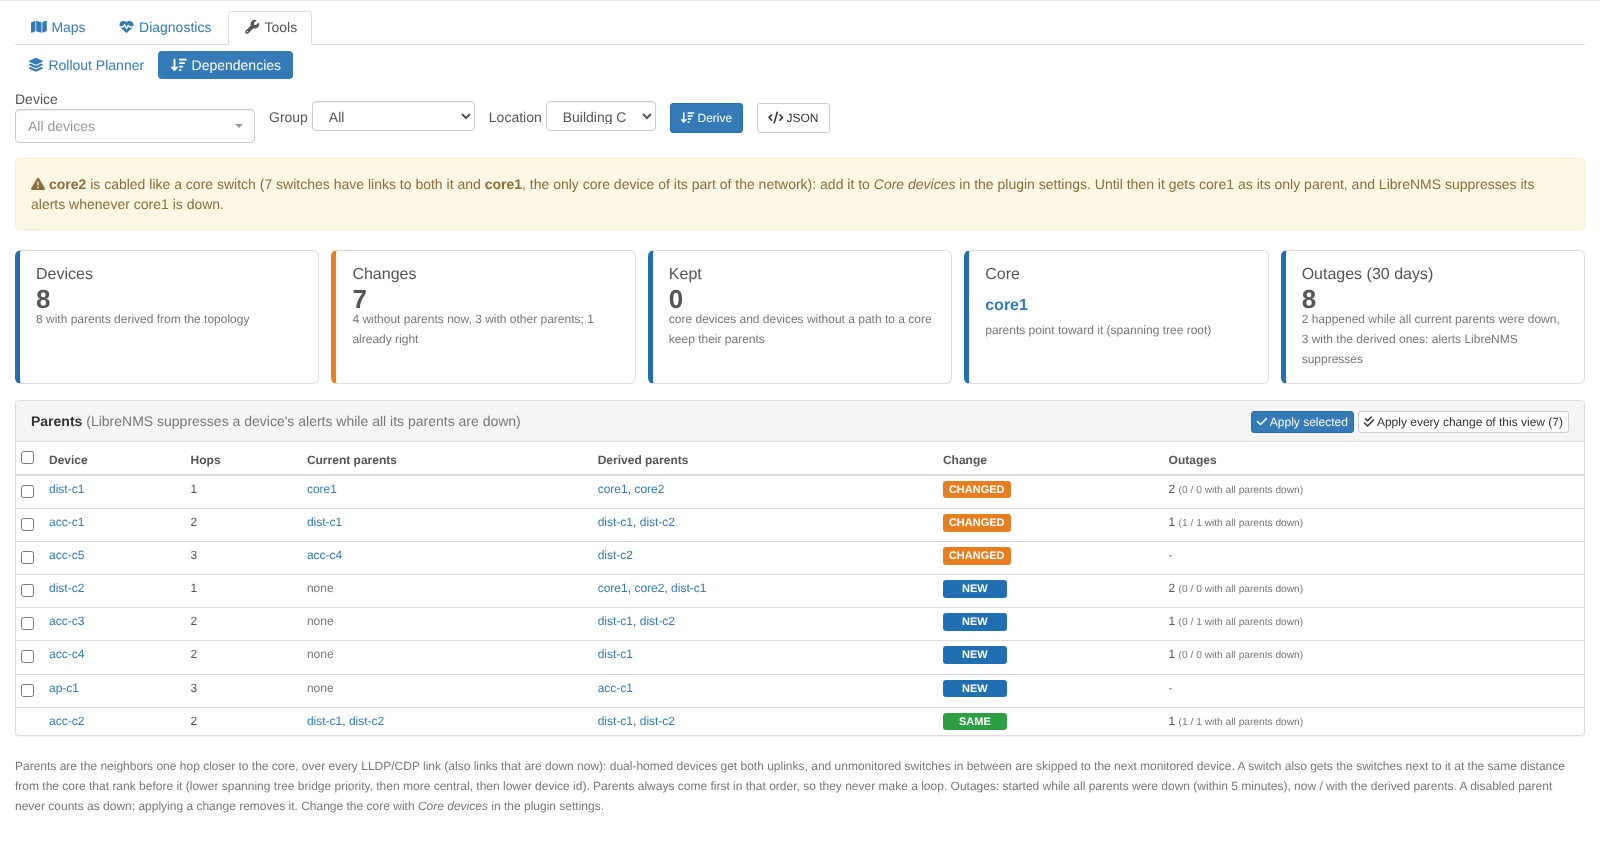
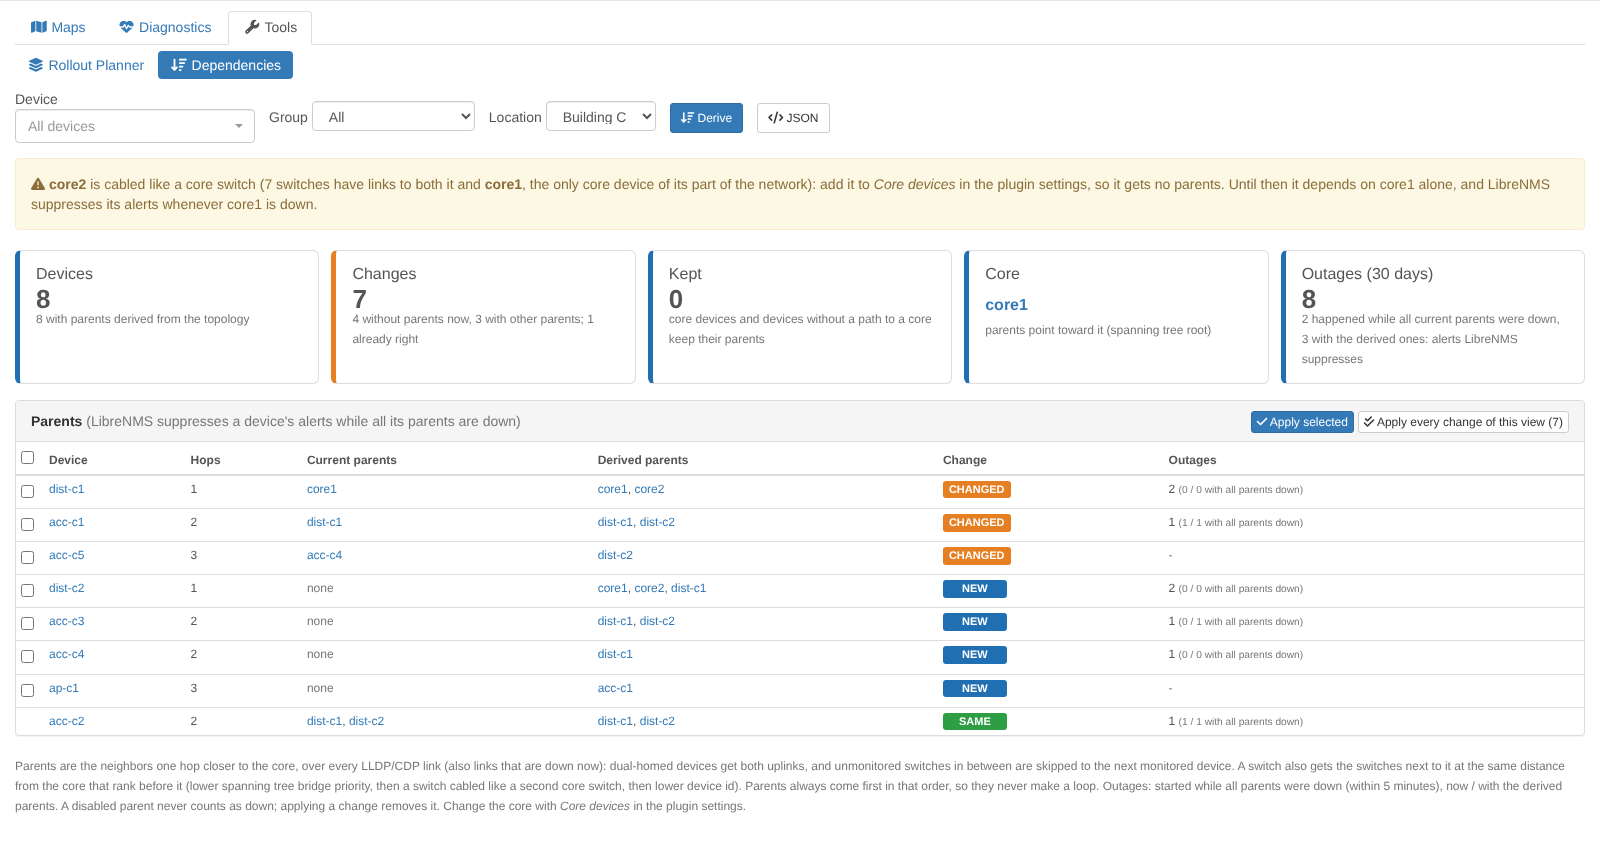
Rank same-distance parents by priority, core lookalike, then id
Drop the hop-total tie-break of same-distance parents: it ran a search of
the whole network per ranked switch, and which of two peer-linked
switches depended on the other flipped when unrelated switches were
added. Switches now rank by bridge priority (without the VLAN bits),
then the switch CoreAdvice names as cabled like a second core switch,
then device id: a strict order that only depends on the two switches.
CoreAdvice counts shared neighbors with a set (linear).

The dependencies page's warning about that switch now names the parents
it actually gets.

Claude-Session: https://claude.ai/code/session_0198AmcjhsoHmwiaRMAktLtB

Changed region(s): [[0.0625, 0.9209, 0.9688, 0.9823], [0.6875, 0.2149, 0.9688, 0.2456], [0.0312, 0.2149, 0.1875, 0.2456]]

diff --git a/tests/Unit/DependencyPlannerTest.php b/tests/Unit/DependencyPlannerTest.php
@@ -85,12 +85,21 @@ class DependencyPlannerTest extends TestCase
         $this->assertSame([self::C2], $parents[self::D2]);
         $this->assertSame([self::C2, self::D1], self::parents(self::square(), [], [self::D1 => 32769, self::D2 => 32770])[self::D2]);
 
-        // then the more central switch (fewer hops to the other switches): acc1 hangs off dist2
-        $net = self::square();
-        $net->device(self::A1, 'acc1')->link(self::A1, 'Gi1/0/49', self::D2, 'Gi1/0/1');
-        $parents = self::parents($net);
-        $this->assertSame([self::C1, self::D2], $parents[self::D1]);
-        $this->assertSame([self::C2], $parents[self::D2]);
+    }
+
+    public function testOrderDoesNotDependOnOtherSwitches(): void
+    {
+        // a peer link between the distribution switches: dist2 gets dist1, whatever else hangs off either of them
+        $net = RedundancyFixture::campus();
+        $net->link(self::D1, 'Te1/1/5', self::D2, 'Te1/1/5');
+        $this->assertSame([self::C1, self::C2, self::D1], self::parents($net)[self::D2]);
+
+        $net->device(8, 'acc3')->link(8, 'Gi1/0/49', self::D2, 'Gi1/0/8');
+        $this->assertSame([self::C1, self::C2, self::D1], self::parents($net)[self::D2]);
+        $this->assertSame([self::C1, self::C2], self::parents($net)[self::D1]);
+
+        $net->device(9, 'acc4')->link(9, 'Gi1/0/49', self::D1, 'Gi1/0/9')->device(10, 'acc5')->link(10, 'Gi1/0/49', self::D1, 'Gi1/0/10');
+        $this->assertSame([self::C1, self::C2, self::D1], self::parents($net)[self::D2]);
     }
 
     public function testOddRingDependsOnBothSides(): void
@@ -117,7 +126,7 @@ class DependencyPlannerTest extends TestCase
             ->link(10, 'Gi1/0/50', 11, 'Gi1/0/49')->link(11, 'Gi1/0/50', self::D2, 'Gi1/0/11');
         $derived = (new DependencyPlanner($net->analyzer()))->derive();
 
-        $this->assertSame([8], $derived[9]['parents'], 'ranks first (as central, lower device id)');
+        $this->assertSame([8], $derived[9]['parents'], 'ranks first (lower device id)');
         $this->assertSame([9, 11], $derived[10]['parents'], 'its own uplink and the switch next to it');
         $this->assertSame([3, 3], [$derived[9]['hops'], $derived[10]['hops']]);
         $this->assertSame([], DependencyPlanner::loops(array_map(fn ($entry) => $entry['parents'], $derived)));
@@ -137,10 +146,51 @@ class DependencyPlannerTest extends TestCase
         $this->assertSame([self::D1, self::D2], $derived[self::A1]['parents']);
         $this->assertSame([['core' => self::C1, 'lookalike' => self::C2, 'shared' => 2]], CoreAdvice::singleCores($analyzer));
 
-        // without spanning tree data the distribution switches are more central than core2: the page says to set it as core
+        // without spanning tree data core2 ranks first as the switch cabled like a second core switch
         $analyzer = $net->analyzer(['redundancy_core' => 'core1']);
+        $derived = (new DependencyPlanner($analyzer))->derive();
         $this->assertSame([['core' => self::C1, 'lookalike' => self::C2, 'shared' => 2]], CoreAdvice::singleCores($analyzer));
-        $this->assertSame([], DependencyPlanner::loops(array_map(fn ($entry) => $entry['parents'], (new DependencyPlanner($analyzer))->derive())));
+        $this->assertSame([self::C1], $derived[self::C2]['parents']);
+        $this->assertSame([self::C1, self::C2], $derived[self::D1]['parents']);
+        $this->assertSame([self::C1, self::C2], $derived[self::D2]['parents']);
+
+        // a lower bridge priority still ranks first
+        $derived = (new DependencyPlanner($net->analyzer(['redundancy_core' => 'core1'], null, [], [], [self::D1 => 4096])))->derive();
+        $this->assertSame([self::C1, self::D1], $derived[self::C2]['parents']);
+        $this->assertSame([self::C1], $derived[self::D1]['parents']);
+        $this->assertSame([], DependencyPlanner::loops(array_map(fn ($entry) => $entry['parents'], $derived)));
+    }
+
+    public function testLargeCampusWithRingsIsDerivedQuickly(): void
+    {
+        // 40 distribution pairs with a peer link, each with a ring of 30 access switches from one to the other
+        $net = new RedundancyFixture;
+        $net->device(1, 'core1')->device(2, 'core2')->link(1, 'Te1/1/1', 2, 'Te1/1/1');
+        $id = 2;
+        for ($pod = 0; $pod < 40; $pod++) {
+            $a = ++$id;
+            $b = ++$id;
+            $net->device($a, "dist{$pod}a")->device($b, "dist{$pod}b")->link($a, 'Te1/1/1', 1, "Te1/0/$a")->link($a, 'Te1/1/2', 2, "Te1/0/$a")
+                ->link($b, 'Te1/1/1', 1, "Te1/0/$b")->link($b, 'Te1/1/2', 2, "Te1/0/$b")->link($a, 'Te1/1/3', $b, 'Te1/1/3');
+            $previous = $a;
+            for ($i = 0; $i < 30; $i++) {
+                $net->device(++$id, "acc{$pod}-{$i}")->link($id, 'Gi1/0/49', $previous, "Gi1/0/50-$i");
+                $previous = $id;
+            }
+            $net->link($previous, 'Gi1/0/50', $b, 'Gi1/0/1');
+        }
+        $analyzer = $net->analyzer();
+        $start = microtime(true);
+        $derived = (new DependencyPlanner($analyzer))->derive();
+        $elapsed = microtime(true) - $start;
+
+        $this->assertCount(1282, $derived);
+        $this->assertSame([], DependencyPlanner::loops(array_map(fn ($entry) => $entry['parents'], $derived)));
+        // the first ring runs dist0a (3), acc 5 to 34, dist0b (4): 19 and 20 are the farthest, 20 also depends on 19
+        $this->assertSame([18], $derived[19]['parents']);
+        $this->assertSame([19, 21], $derived[20]['parents']);
+        $this->assertSame([1, 2, 3], $derived[4]['parents']);
+        $this->assertLessThan(1.0, $elapsed);
     }
 
     public function testDualHomedServerAndLoneDevices(): void

diff --git a/src/Redundancy/DependencyPlanner.php b/src/Redundancy/DependencyPlanner.php
@@ -10,10 +10,11 @@ namespace Agoodley\LibrenmsTopology\Redundancy;
  *  - its neighbours one hop closer to the core, through unmanaged devices (LibreNMS parents must be
  *    monitored devices, so an unmonitored switch is skipped to the next monitored one);
  *  - its switches, routers and firewalls at the same distance from the core that rank before it:
- *    lower spanning tree bridge priority, then more central (fewer hops to the other switches),
- *    then lower device id. A switch cabled to both switches of a core pair whose second switch is
- *    not set as core gets that second switch too when it has the lower bridge priority (as a
- *    secondary root bridge does), and of two peer-linked switches the later one gets the first.
+ *    lower spanning tree bridge priority (without the VLAN bits), then the switch cabled like a
+ *    second core switch (see CoreAdvice), then lower device id. So a switch cabled to both switches
+ *    of a core pair whose second switch is not set as core gets that second switch too, and of two
+ *    peer-linked switches the later one gets the first. The order only depends on these devices,
+ *    not on the rest of the cabling, so it stays the same when other switches come and go.
  * Parents always rank before their children in one strict order (distance, then that rank), so the
  * dependencies never form a loop; more parents only make suppression rarer, the safe side. Core
  * devices and devices without a path to a core get no parents: their current ones are kept.
@@ -48,8 +49,8 @@ class DependencyPlanner
     /** @var array<int, int> device_id => bridge priority without the VLAN bits */
     private array $priority = [];
 
-    /** @var array<string, int> node => hops to every switch, router and firewall it reaches (memo) */
-    private array $hopTotal = [];
+    /** @var array<int, true> device_id => cabled like a second core switch (see CoreAdvice) */
+    private array $lookalike = [];
 
     public function __construct(private RedundancyAnalyzer $analyzer)
     {
@@ -61,6 +62,11 @@ class DependencyPlanner
         $this->distance = array_map('intval', $graph->distances(RedundancyAnalyzer::CORE));
         foreach ($analyzer->bridgePriorities() as $deviceId => $priority) {
             $this->priority[(int) $deviceId] = (int) $priority & 0xF000;
+        }
+        foreach (CoreAdvice::singleCores($analyzer) as $advice) {
+            if ($advice['lookalike'] !== null) {
+                $this->lookalike[$advice['lookalike']] = true;
+            }
         }
     }
 
@@ -157,43 +163,17 @@ class DependencyPlanner
 
     /**
      * Strict order of two network devices at the same distance from the core: lower bridge priority,
-     * then fewer hops to the other switches (more central), then lower device id.
+     * then the switch cabled like a second core switch, then lower device id.
      */
     private function ranksBefore(string $a, string $b): bool
     {
         $deviceA = (int) $this->nodes[$a]['device_id'];
         $deviceB = (int) $this->nodes[$b]['device_id'];
         $order = ($this->priority[$deviceA] ?? self::DEFAULT_PRIORITY) <=> ($this->priority[$deviceB] ?? self::DEFAULT_PRIORITY)
-            ?: $this->hopTotal($a) <=> $this->hopTotal($b)
+            ?: isset($this->lookalike[$deviceB]) <=> isset($this->lookalike[$deviceA])
             ?: $deviceA <=> $deviceB;
 
         return $order < 0;
-    }
-
-    /**
-     * Hops from the node to every switch, router and firewall it reaches without the core node: the
-     * centrality CoreFinder ranks automatic core candidates by.
-     */
-    private function hopTotal(string $node): int
-    {
-        if (! isset($this->hopTotal[$node])) {
-            $hops = [$node => 0];
-            $queue = [$node];
-            $total = 0;
-            for ($i = 0; $i < count($queue); $i++) {
-                foreach ($this->adjacency[$queue[$i]] as $next) {
-                    if ($next !== RedundancyAnalyzer::CORE && ! isset($hops[$next])) {
-                        $hops[$next] = $hops[$queue[$i]] + 1;
-                        $queue[] = $next;
-                        $info = $this->nodes[$next] ?? null;
-                        $total += $info && $info['managed'] && $info['network'] ? $hops[$next] : 0;
-                    }
-                }
-            }
-            $this->hopTotal[$node] = $total;
-        }
-
-        return $this->hopTotal[$node];
     }
 
     /**

diff --git a/resources/views/dependencies.blade.php b/resources/views/dependencies.blade.php
@@ -75,11 +75,19 @@
         @endphp
         @foreach($result['advice'] as $advice)
             @if($advice['lookalike'])
+                @php
+                    $adviceParents = array_map($name, $advice['parents']);
+                    $parentList = count($adviceParents) > 1 ? implode(', ', array_slice($adviceParents, 0, -1)) . ' and ' . end($adviceParents) : implode('', $adviceParents);
+                @endphp
                 <div class="alert alert-warning topo-core-advice">
                     <i class="fa fa-exclamation-triangle"></i> <strong>{{ $name($advice['lookalike']) }}</strong> is cabled like a core switch
                     ({{ $advice['shared'] }} switches have links to both it and <strong>{{ $name($advice['core']) }}</strong>, the only core device of its part of the network):
-                    add it to <i>Core devices</i> in the plugin settings. Until then it gets {{ $name($advice['core']) }} as its only parent, and LibreNMS suppresses
-                    its alerts whenever {{ $name($advice['core']) }} is down.
+                    add it to <i>Core devices</i> in the plugin settings, so it gets no parents.
+                    @if(count($adviceParents) === 1)
+                        Until then it depends on {{ $parentList }} alone, and LibreNMS suppresses its alerts whenever {{ $parentList }} is down.
+                    @elseif($adviceParents)
+                        Until then it depends on {{ $parentList }}, and LibreNMS suppresses its alerts while all of them are down.
+                    @endif
                 </div>
             @endif
         @endforeach
@@ -218,8 +226,8 @@
         <p class="text-muted" style="font-size: 12px">
             Parents are the neighbors one hop closer to the core, over every LLDP/CDP link (also links that are down now): dual-homed devices get both
             uplinks, and unmonitored switches in between are skipped to the next monitored device. A switch also gets the switches next to it at the
-            same distance from the core that rank before it (lower spanning tree bridge priority, then more central, then lower device id). Parents
-            always come first in that order, so they never make a loop.
+            same distance from the core that rank before it (lower spanning tree bridge priority, then a switch cabled like a second core switch, then
+            lower device id). Parents always come first in that order, so they never make a loop.
             Outages: started while all parents were down (within {{ \Agoodley\LibrenmsTopology\Redundancy\DependencyPlanner::OUTAGE_TOLERANCE / 60 }}
             minutes), now / with the derived parents. A disabled parent never counts as down; applying a change removes it.
             @if($single)

diff --git a/src/Topology/PlanningService.php b/src/Topology/PlanningService.php
@@ -108,7 +108,7 @@ class PlanningService
      */
     public function dependencies(array $p): array
     {
-        [$rows, $known] = $this->view($p, $this->repo->deviceIds());
+        [$rows, $known, $derived] = $this->view($p, $this->repo->deviceIds());
         $current = $known['parents'];
         $changes = DependencyPlanner::changes($rows);
 
@@ -134,8 +134,10 @@ class PlanningService
                 $core[] = ['device_id' => (int) $deviceId, 'mode' => $mode];
             }
         }
-        $advice = CoreAdvice::singleCores($this->analyzer());
-        $names = array_map(fn ($info) => $info['name'], $this->deviceInfo(array_merge($ids, array_column($core, 'device_id'), array_column($advice, 'lookalike'))));
+        // the parents a switch cabled like a second core switch gets until it is set as core
+        $advice = array_map(fn ($entry) => $entry + ['parents' => $derived[$entry['lookalike']]['parents'] ?? []], CoreAdvice::singleCores($this->analyzer()));
+        $names = array_map(fn ($info) => $info['name'], $this->deviceInfo(array_merge($ids, array_column($core, 'device_id'),
+            array_column($advice, 'lookalike'), ...array_column($advice, 'parents'))));
         $count = fn (string $change) => count(array_filter($rows, fn ($r) => $r['change'] === $change));
 
         return [
@@ -245,8 +247,9 @@ class PlanningService
      *
      * @param  array{device: ?int, group: ?int, location: ?int}  $p
      * @param  int[]  $all  every device the user may see
-     * @return array{0: array<int, array>, 1: array{parents: array<int, int[]>, disabled: array<int, string>, hidden: array<int, int>}}
-     *     rows (see DependencyPlanner::compare()) and DependencyRepository::parents()
+     * @return array{0: array<int, array>, 1: array{parents: array<int, int[]>, disabled: array<int, string>, hidden: array<int, int>},
+     *     2: array<int, array>} rows (see DependencyPlanner::compare()), DependencyRepository::parents() and
+     *     DependencyPlanner::derive()
      */
     private function view(array $p, array $all): array
     {
@@ -267,7 +270,7 @@ class PlanningService
         usort($rows, fn ($a, $b) => [self::CHANGE_ORDER[$a['change']] ?? 9, $a['hops'] ?? PHP_INT_MAX] <=> [self::CHANGE_ORDER[$b['change']] ?? 9, $b['hops'] ?? PHP_INT_MAX]
             ?: strnatcasecmp($this->name($a['device_id']), $this->name($b['device_id'])));
 
-        return [$rows, $known];
+        return [$rows, $known, $derived];
     }
 
     /**

diff --git a/resources/views/rollout.blade.php b/resources/views/rollout.blade.php
@@ -71,7 +71,7 @@
                 <div class="alert alert-warning topo-core-advice">
                     <i class="fa fa-exclamation-triangle"></i> <strong>{{ $name($advice['lookalike']) }}</strong> is cabled like a core switch
                     ({{ $advice['shared'] }} switches have links to both it and <strong>{{ $name($advice['core']) }}</strong>, the only core device of its part of the network):
-                    add it to <i>Core devices</i> in the plugin settings. Until then it is planned like an access switch, before the core.
+                    add it to <i>Core devices</i> in the plugin settings. Until then it is planned like any other switch, before the core.
                 </div>
             @endif
         @endforeach

diff --git a/src/Redundancy/CoreAdvice.php b/src/Redundancy/CoreAdvice.php
@@ -54,10 +54,11 @@ class CoreAdvice
             }
             $core = $cores[0];
             $around = $neighbours($core);
+            $isAround = array_flip($around);
             $best = null;
             $bestShared = 0;
             foreach ($around as $candidate) {
-                $shared = count(array_intersect($around, $neighbours($candidate)));
+                $shared = count(array_filter($neighbours($candidate), fn ($node) => isset($isAround[$node])));
                 $key = [-$shared, $priority[$candidate] ?? self::DEFAULT_PRIORITY, (int) $nodes[$candidate]['device_id']];
                 if ($best === null || $key < $best[0]) {
                     $best = [$key, $candidate];

diff --git a/README.md b/README.md
@@ -141,9 +141,9 @@ the core over every LLDP/CDP link, also links that are down now.
 
 * Dual-homed devices get both uplink devices, so their alerts are only suppressed when both are down.
 * A switch also gets the switches next to it at the same distance from the core that rank before it: lower spanning
-  tree bridge priority, then more central (fewer hops to the other switches), then lower device id. So a switch cabled
-  to both switches of a core pair gets both even when only one of them is set as core, as long as the other one has the
-  lower bridge priority.
+  tree bridge priority (without the VLAN bits), then a switch cabled like a second core switch, then lower device id.
+  So a switch cabled to both switches of a core pair gets both even when only one of them is set as core, and the order
+  of two switches stays the same when other switches are added or removed.
 * Parents always come first in that order (closer to the core, then by rank), so derived dependencies never form a loop.
 * An unmonitored switch in between is skipped to the next monitored device toward the core.
 * Core devices and devices without a path to a core keep their current parents.
@@ -218,8 +218,8 @@ To remove it: `./lnms plugin:remove agoodley/librenms-topology-plugin`.
   same as JSON).
 * If the automatic core is not your core, set **Core devices** in the settings; the switches next to the LibreNMS
   poller are a good choice when you want "what can the poller still reach". Set both switches of a core pair: with only
-  one, the other one depends on it alone on the dependencies page and the rollout planner plans it like an access
-  switch (both pages name a switch that is cabled like a second core switch).
+  one, the other one gets parents on the dependencies page and the rollout planner plans it like any other switch
+  (both pages name a switch that is cabled like a second core switch).
 * Before a firmware rollout, plan it on **Rollout Planner** for the device group or location, then put each batch and
   the devices listed under it in a LibreNMS maintenance window while it runs.
 * `plugin/topology/api/l2`, `api/l3`, `api/stp`, `api/links`, `api/redundancy`, `api/rollout` and `api/dependencies`
